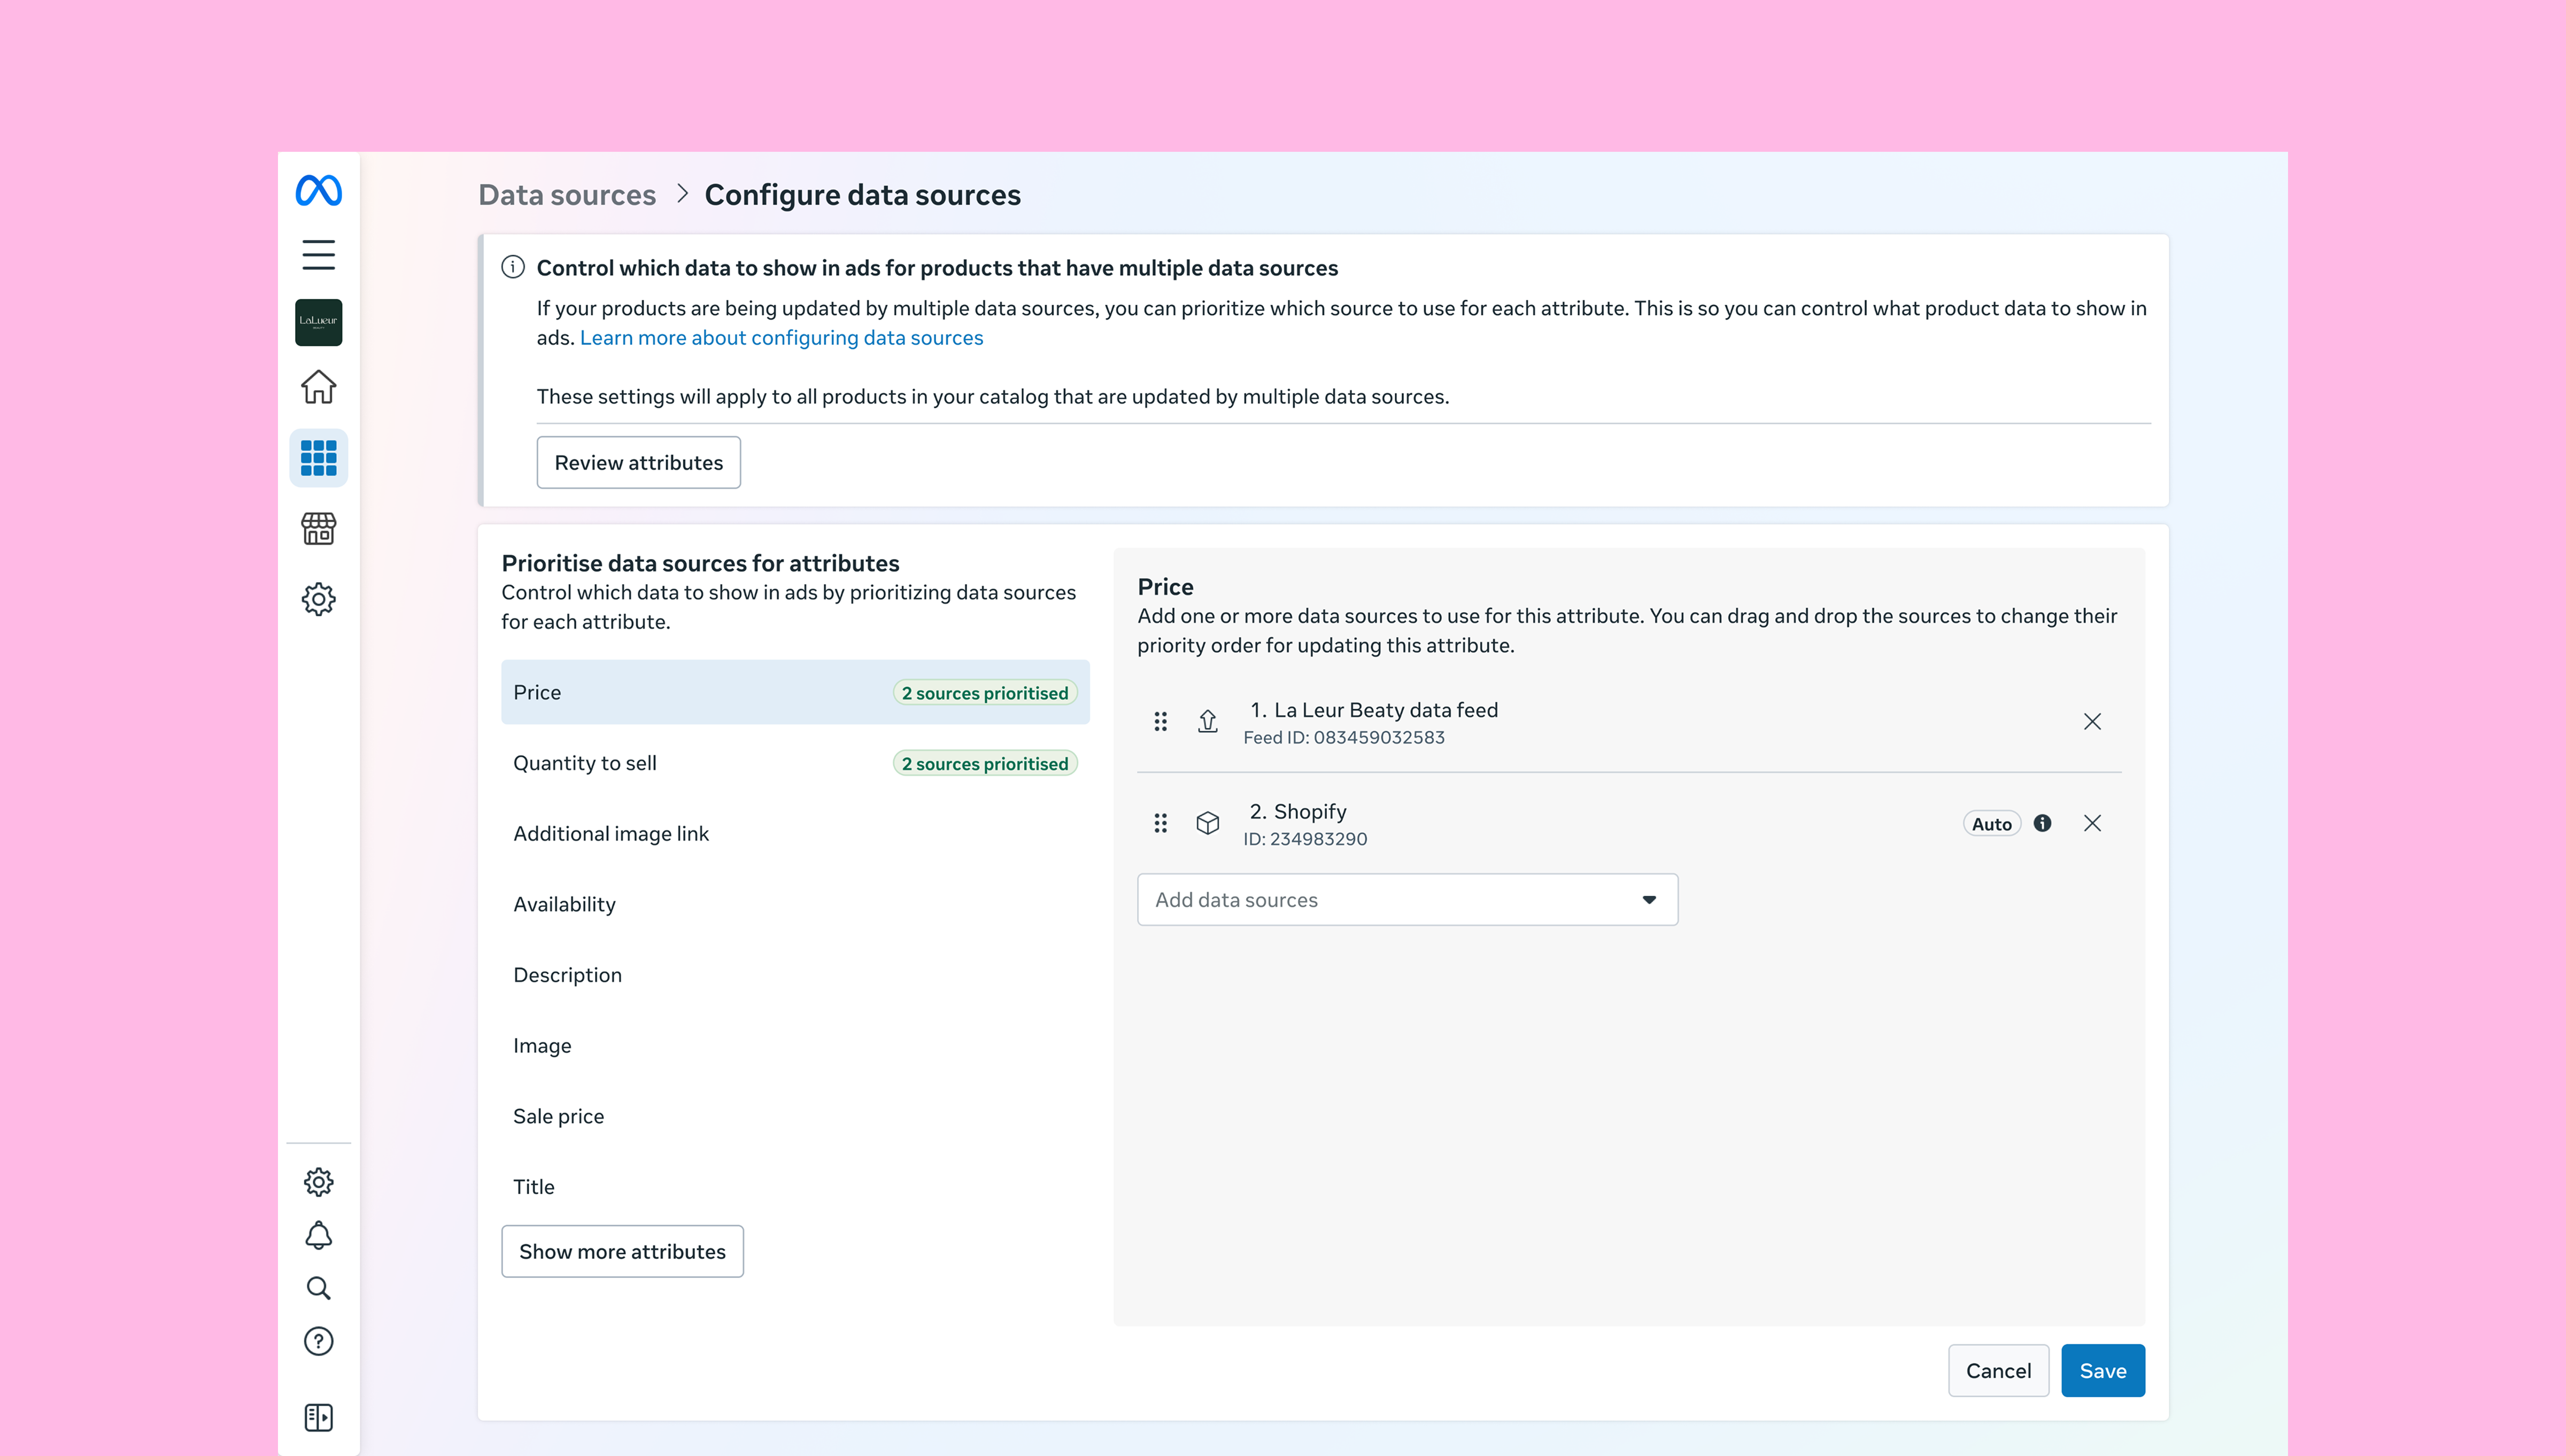
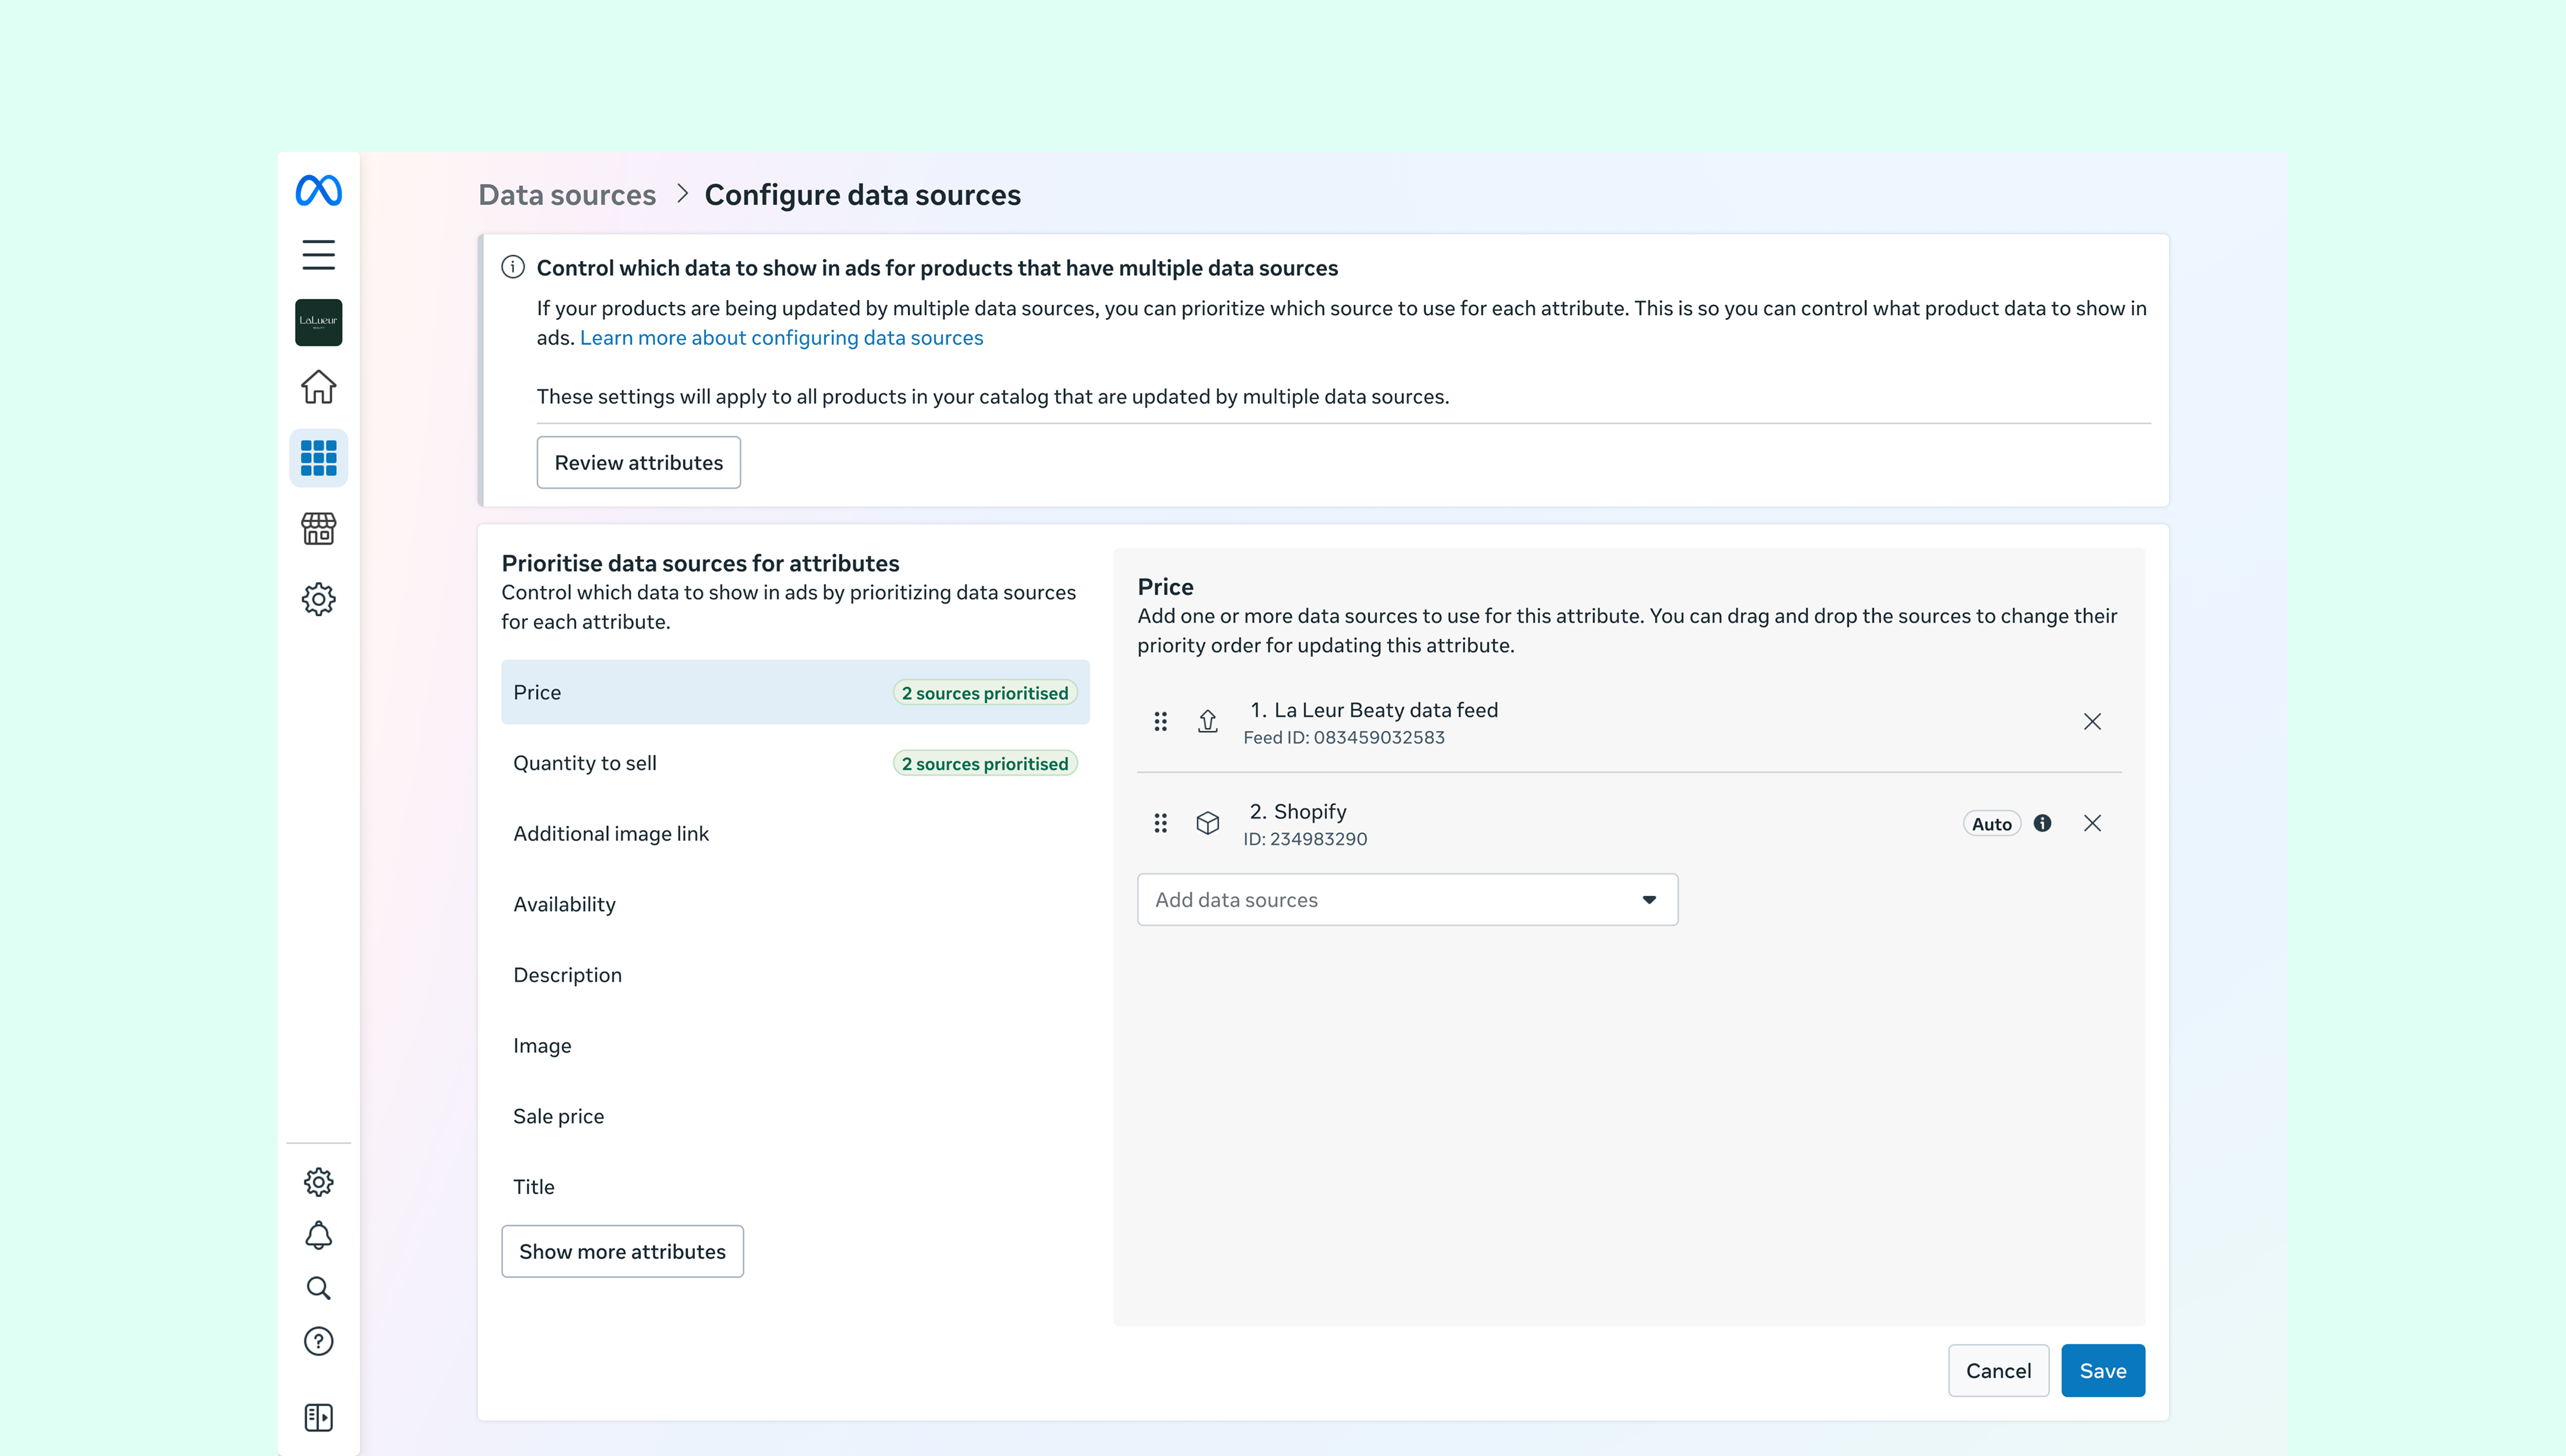
CV
New case study

Changed region(s): [[0.0, 0.0, 1.0, 1.0]]

diff --git a/cv.html b/cv.html
@@ -1,0 +1,113 @@
+<!DOCTYPE HTML>
+<html>
+    <head>
+        <title>Catalog Data Controls</title>
+        <meta charset="utf-8">
+        <meta name="description" content="Senior Product Designer">
+        <meta name="viewport" content="width=device-width, initial-scale=1">
+        <!-- Links to external libraries and CSS reset -->
+        <link rel="stylesheet" type="text/css" href="assets/css/reset.css">
+        <script src="https://unpkg.com/masonry-layout@4/dist/masonry.pkgd.min.js"></script>
+        <link rel="stylesheet" href="https://unpkg.com/flickity@2/dist/flickity.min.css">
+        <script src="https://unpkg.com/flickity@2/dist/flickity.pkgd.min.js"></script>
+        <script src="https://unpkg.com/imagesloaded@4/imagesloaded.pkgd.min.js"></script>
+        <script type="text/javascript" src="assets/js/jquery-3.4.0.min.js"></script>
+
+        <link rel="stylesheet" type="text/css" href="assets/css/style.css">
+        <link rel="stylesheet" type="text/css" href="assets/css/stylesheet.css">
+        <script type="text/javascript" src="assets/js/jquery.js"></script>
+        <script type="text/javascript" src="assets/js/script.js"></script>
+    </head>
+
+    <header>
+        <div class="headerGrid">
+          <div class="intro">
+            <h2><a href="index.html" class="colorChange">Rachel Lee</a></h2>
+            <h3 id="funFact"></h3>
+          </div>
+          <div class="menuItems" id="work"><h3><a href="index.html" class="colorChange">Work</a></h3></div>
+          <!-- <div class="menuItems" id="etc"><h3><a href="etc.html" class="colorChange">Etc</a></h3></div> -->
+          <div class="menuItems" id="about"><h3><a href="about.html" class="colorChange">About</a></h3></div>
+        </div>
+    </header>
+
+    <body>
+      <!-- LEFT CONTAINER -->
+        <main class="leftContainer">
+            <div class="leftContent">
+              <h4 id="featureNumber">01</h4><h3 class="paragraphBottom" id="featureTitle" >Catalog Data Controls</h3>
+              <h2 id="featureSummary">0 → 1 foundational infrastructure giving advertisers direct control over how their product data appears in ads, for every objective.</h2>
+            </div>
+            <!-- superscript -->
+            <div class="leftContent" id="superContent1">
+              <h3>1</h3><h4> ROAS (Return on ad spend) — revenue earned per dollar spent on ads.</h4>
+            </div>
+            <div class="leftContent leftImg" id="nextProject">
+              <img class="paragraphBottom" src="assets/images/home/AIGA-Web.png">
+              <h3 class="paragraphBottom"><a href="aiga-census.html"><span class="colorChange">Next: AIGA Design Census ↗</span></a></h3>
+            </div>
+            <div id="leftFooter">
+              <h4>Rachel Lee © 2026</h4>
+            </div>
+        </main>
+
+<!--        RIGHT CONTAINER -->
+        <main class="rightContainer">
+          <div class="projectCoverImg"><img src="assets/images/cv/CV cover.png"></div>
+          <section class="projectIntroGrid">
+            <h5 id="title">Catalog Data Controls</h5>
+            <div id="skills">
+              <h3>Skills<h3>
+              <h4>Platform Design</h4>
+              <h4>Interaction Design</h4>
+              <h4>Systems Design</h4>
+              <h4>Technical Architecture</h4>
+            </div>
+            <div id="timeframe">
+              <h3>Timeframe<h3>
+              <h4>June 2024 - May 2025</h4>
+            </div>
+            <div id="collaborators">
+              <h3>Team<h3>
+              <h4>Content Designer</h4>
+              <h4>Engineers</h4>
+              <h4>Product Marketing Manager</h4>
+            </div>
+            <div id="role">
+              <h3>Role<h3>
+              <h4>Lead Product Designer</h4>
+            </div>
+            <h1 id="summary">0 → 1 foundational infrastructure giving advertisers direct control over how their product data appears in ads, for every objective.</h1>
+            <div id="overview">
+              <p class="paragraphBottom">Advertisers upload their products to <a href="https://www.facebook.com/business/tools/shopping-catalog?ref=search_new_1" target="_blank"><span class="colorChange bodyLink">Meta's catalog ↗</span></a>. Things like images, titles, prices, and that data powers every ad and storefront on Facebook and Instagram. But they had no control over how that data was used, or how their products appeared depending on their goal. Advertisers trying to run different kinds of campaigns for the same products had no good option: the only workaround was duplicating their entire catalog, which degraded ad performance every time.</p>
+              <p class="paragraphBottom">This was a two-part solution. Configure Sources gave advertisers control over which data source set each product attribute. Product Data Versions let them create alternate representations of their products for different marketing objectives.</p>
+              <h2>This project is under NDA. Screens shown here have shipped publicly. Full case study is available on request.</h2>
+            </div>
+          </section>
+          <section class="projectContent">
+            <h5 class="projectHeading">Phase 1: Configure Sources</h5>
+            <p class="projectText paragraphBottom">I co-led research and project scoping, and designed a solution to manage data sources with a transparency-first approach: showing advertisers which data source was winning for each attribute before asking them to make any decisions about it. Highlights shown below:</p>
+            
+            <!-- Highlights -->
+            <h1 class="deliverablesHeading3">See what's winning</h1>
+            <div class="deliverablesImg4"><img src="assets/images/cv/see-priority.png"></img></div>
+            <p class="deliverablesText4">Attributes updated by multiple data sources are surfaced first. Advertisers can see which source is setting each value, like price, image, title, before making any changes.</p>
+            
+            <h1 class="deliverablesHeading3">Then change it</h1>
+            <div class="deliverablesImg1"><img src="assets/images/cv/reprioritise.gif"></img></div>
+            <p class="deliverablesText1">Advertisers reprioritise by dragging sources into order. Meta's default is visible and overridable, but at least one source must always be set so buyers never see wrong information that looses their trust.</p>
+            
+            <h5 class="projectHeading">Phase 2: Product Data Versions</h5>
+            <p class="projectText paragraphBottom">I led the project from Alpha to Beta launch. Notably, I co-authored a technical behaviour proposal with engineering to establish the right data model before any interface work began, and built a design vision that became the roadmap for 5 product teams. In addition to designing, I was deeply involved in advertiser recruitment, research, and go-to-market preparation.</p>
+
+          <!-- Outcomes -->
+          <h5 class="projectHeading">Outcomes</h5>
+          <p class="projectText">Configure Sources exceeded its resolution goal and opened new revenue opportunities for advertisers who previously couldn't use catalog-powered ads. Product Data Versions launched to Beta, and earned a GA recommendation with strong advertiser satisfaction and significant <span id="super"><span class="inlineSuperscript">ROAS improvements<span class="superscript" id="superSmall">1</span></span></span> reported across exit interviews.</p>
+
+          <!-- Key Takeaway -->
+          <h5 class="projectHeading">Key Takeaway</h5>
+          <p class="projectText paragraphBottom">Design's job isn't just to make things look right. It's to make sure the right thinking is in the room before anything is built.</p>
+      </section>
+    </main>
+  </body>
+</html>

diff --git a/assets/css/style.css b/assets/css/style.css
@@ -55,7 +55,7 @@ h4 {
 }
 
 h5 {
-    font-size: 2em;
+    font-size: 1.8em;
     line-height: 1.5em;
     padding-bottom: 1em;
 }
@@ -70,8 +70,15 @@ figcaption {
     font-size: 0.8em;
     line-height: 1.6em;
     padding: 1.5em 0 2em 0;
-    color: rgba(0, 0, 0, 0.8);
+    color: #626C74;
     text-align: center;
+}
+
+small {
+    font-size: 0.8em;
+    line-height: 1.6em;
+    padding-top: 0.2em;
+    color: #626C74;  
 }
 
 h1 {
@@ -262,21 +269,21 @@ img {
     cursor: pointer;
 }
 
-#rachelImg, #superContent2, #censusData {
+#rachelImg, #censusData {
     display: none;
 }
 
-#rachelImg.show, #superContent2.show{
+#rachelImg.show {
     display: block;
 }
 
-#superContent1 {
+#superContent1, #superContent2 {
     opacity: 0;
     visibility: hidden;
     transition: opacity 0.4s ease, visibility 0.4s ease;
 }
 
-#superContent1.show {
+#superContent1.show, #superContent2.show {
     opacity: 1;
     visibility: visible;
 }
@@ -631,5 +638,6 @@ path.arrow {
   .gridItem.w3 { width: 70%; }
   .gridItem.w4 { width: 45%; }
   .carousel-cell { width: 80%; }
-  .projectIntroGrid, .projectContent {padding: 0 3em 3em 3em;}
+  .projectIntroGrid, .projectContent {padding: 0 0.5em 1.5em 0.5em;}
+  #overview { grid-area: overview; padding-bottom: 0.5em;}
 }

diff --git a/assets/js/script.js b/assets/js/script.js
@@ -202,22 +202,25 @@ document.addEventListener('DOMContentLoaded', function() {
     el.addEventListener('mouseleave', function() { el.style.color = ''; });
   });
 
-  /* Superscript: number always colored immediately, surrounding text fades on hover, left panel reveals */
+  /* Superscript: number always colored immediately, text + panel reveal on hover over full inlineSuperscript */
   document.querySelectorAll('.superscript').forEach(function(el) {
     var color = randomAccent();
     el.style.color = color;
 
     var inline = el.closest('.inlineSuperscript');
+    var trigger = inline || el;
+
     if (inline) {
-      el.addEventListener('mouseenter', function() { inline.style.color = color; });
-      el.addEventListener('mouseleave', function() { inline.style.color = ''; });
+      inline.style.cursor = 'pointer';
+      trigger.addEventListener('mouseenter', function() { inline.style.color = color; });
+      trigger.addEventListener('mouseleave', function() { inline.style.color = ''; });
     }
 
     var noteId = el.dataset.note || 'superContent1';
     var note = document.getElementById(noteId);
     if (note) {
-      el.addEventListener('mouseenter', function() { note.style.opacity = '1'; note.style.visibility = 'visible'; });
-      el.addEventListener('mouseleave', function() { note.style.opacity = '0'; note.style.visibility = 'hidden'; });
+      trigger.addEventListener('mouseenter', function() { note.style.opacity = '1'; note.style.visibility = 'visible'; });
+      trigger.addEventListener('mouseleave', function() { note.style.opacity = '0'; note.style.visibility = 'hidden'; });
     }
   });
 

diff --git a/collab-ads.html b/collab-ads.html
@@ -3,7 +3,7 @@
     <head>
         <title>Collaborative Ads Brand Onboarding</title>
         <meta charset="utf-8">
-        <meta name="description" content="Design and HCI student @ Carnegie Mellon University">
+        <meta name="description" content="Senior Product Designer">
         <meta name="viewport" content="width=device-width, initial-scale=1">
         <!-- Links to external libraries and CSS reset -->
         <link rel="stylesheet" type="text/css" href="assets/css/reset.css">
@@ -77,9 +77,7 @@
             </div>
             <div id="role">
               <h3>Role<h3>
-              <h4>Concept Development</h4>
-              <h4>Interaction Design</h4>
-              <h4>Web Development</h4>
+              <h4>Lead Product Designer</h4>
             </div>
             <h1 id="summary">A two-phase redesign where earning retailer trust through friction fixes made a larger structural change possible.</h1>
             <div id="overview">
@@ -90,18 +88,17 @@
           </section>
           <section class="projectContent">
             <h5 class="projectHeading">Phase 1: Friction fixes</h5>
-            <p class="projectText paragraphBottom">Joined when a solution was already scoped. After running a UX audit and reviewing research, I reframed the scope around the gaps that were actually breaking the experience and got leadership buy-in to change direction. Shipped improvements to notifications, permissions assignment and collaboration term enforcement. Highlights shown below:</p>
+            <p class="projectText paragraphBottom">I joined the team when a solution was already scoped. After running a UX audit and reviewing research, I reframed the scope around the gaps that were actually breaking the experience and got leadership buy-in to change build direction. In this phase, we shipped improvements to notifications, permissions assignment and collaboration term enforcement. Highlights shown below:</p>
             
             <!-- Highlights -->
             <h1 class="deliverablesHeading1">Automate where safe, hold where it matters</h1>
             <div class="deliverablesImg2"><img src="assets/images/collab-ads/ad-account-permissions.PNG"></img></div>
             <p class="deliverablesText2">Ad account permissions stay manually assigned because they carry spend and billing access.</p>
             <div class="deliverablesImg2"><img src="assets/images/collab-ads/catalog-permissions.PNG"></img></div>
-            <p class="deliverablesText2">Catalog segment permissions, which let a brand's team use retailer products in ads, are <span class="colorChange" id="super"><span class="inlineSuperscript">auto-granted to anyone with ad account access.<span class="superscript"
-              id="superSmall">1</span></span></p>
+            <p class="deliverablesText2">Catalog segment permissions, which let a brand's team use retailer products in ads, are <span id="super"><span class="inlineSuperscript">auto-granted to anyone with ad account access.<span class="superscript" id="superSmall" data-note="superContent1">1</span></span></span></p>
             
             <h5 class="projectHeading">Phase 2: Brand initiated onboarding</h5>
-            <p class="projectText paragraphBottom">Led the vision to restructure onboarding to be brand-initiated, removing the retailer as the middle man. Co-pitched the concept to our top retailer partners to test the idea and define scope. Designed and shipped a fully self-serve experience, from discovery to first ad, for brands collaborating with those retailers. Highlights shown below:</p>
+            <p class="projectText paragraphBottom">In this phase, I led the vision to restructure onboarding to be brand-initiated, removing the retailer as the middle man to remove structural bottlenecks that were limiting new brand acquisition. I co-pitched the concept to our top retailer partners to validate the idea and define scope. Post-feedback, I designed and shipped a fully self-serve experience, from discovery to first ad, for brands collaborating with those retailers. Highlights shown below:</p>
 
             <h1 class="deliverablesHeading2">One entry point for all brands</h1>
             <div class="deliverablesImg3"><img src="assets/images/collab-ads/form-full.gif"></img></div>

diff --git a/aiga-census.html b/aiga-census.html
@@ -89,8 +89,7 @@
             <div id="overview">
               <p class="paragraphBottom">Every few years, AIGA releases a <a href="https://designcensus.org/" target="_blank"><span class="colorChange bodyLink">census report ↗</span></a>
               that highlights the state of design and those involved in the industry, using metrics such as demographics, job satisfaction, and future outlook of the industry.</p><p>My team decided to focus on the only subset of the
-              census with a free response option, <span class="colorChange" id="super"><span class="inlineSuperscript">“What are the most critical issues facing design?” </span><span class="superscript"
-              id="superSmall">1</span></span> to tell the personal stories of designers through language and sentiment.</p>
+              census with a free response option, <span id=”super”><span class=”inlineSuperscript”>”What are the most critical issues facing design?”<span class=”superscript” id=”superSmall”>1</span></span></span> to tell the personal stories of designers through language and sentiment.</p>
             </div>
           </section>
           <section class="projectContent">
@@ -162,9 +161,8 @@
             <!-- User Flow and Prototypes -->
             <h5 class="projectHeading">User Flow and Prototypes</h5>
             <p class="projectText paragraphBottom">We went through numerous various site and book iterations, thinking about how quotes should be linked,
-            how content should be stylized, and how we could provide an <span class=" colorChange" id="super2"><span class="inlineSuperscript">introspective experience
-            for users to consider their own position in the matter.</span><span class="superscript"
-            id="superSmall">2</span></span></p>
+            how content should be stylized, and how we could provide an <span id="super2"><span class="inlineSuperscript">introspective experience
+            for users to consider their own position in the matter.<span class="superscript" id="superSmall2" data-note="superContent2">2</span></span></span></p>
 
             <div class="imgFull"><img src="assets/images/aiga/site_map.png"></div>
             <div class="carousel"

diff --git a/em.html b/em.html
@@ -83,7 +83,7 @@
             <h1 id="summary">A conversational user interface to support the flying experience.</h1>
             <div id="overview">
               <p class="paragraphBottom">As conversational agents are increasingly being integrated into digital products, the role of verbal and visual cues in CUIs cannot be understated. Such cues act as the bridge between system and user, creating a human facing persona that lends itself to communicating with and
-              supporting users. We created <span class="colorChange" id="super"><span class="inlineSuperscript">Em,</span><span class="superscript"
+              supporting users. We created <span id="super"><span class="inlineSuperscript">Em,</span><span class="superscript"
               id="superSmall">1</span></span> a CUI for Southwest Airlines, to reflect a brand that is marketed as 'people first' and aims to support passengers during every step of their journey.</p>
             </div>
           </section>